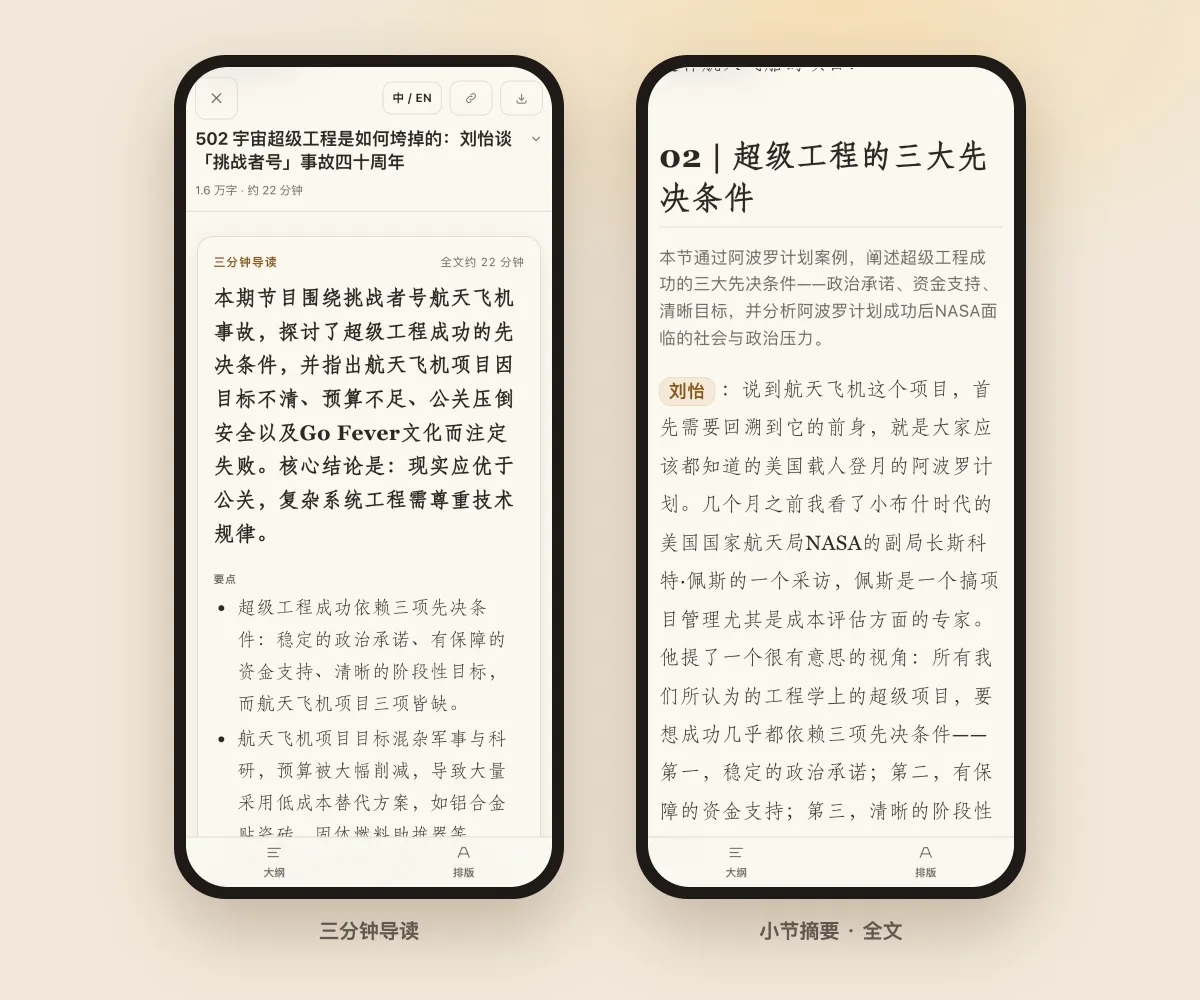
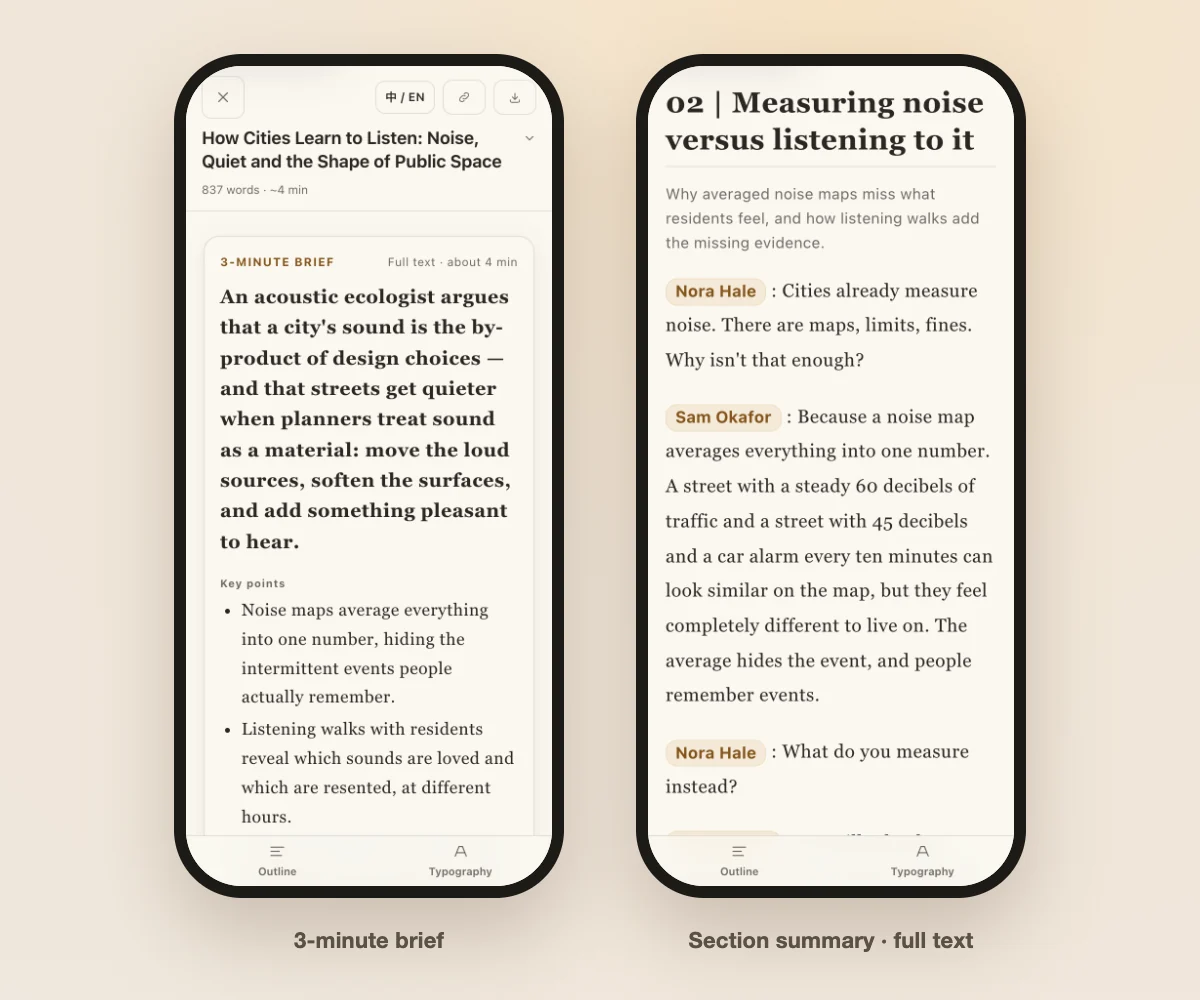
docs(readme): English demo screenshots and flow GIF
Regenerated from a local instance subscribed to seven public English podcast feeds, with an original fictional demo episode for the reader, brief and before/after views. Also shortens the English nav tab to 'Podcasts' so it fits the segmented control.

diff --git a/public/js/08-i18n.js b/public/js/08-i18n.js
@@ -379,7 +379,7 @@
 
         'nav.aria_label': 'Main navigation',
         'nav.workspace': 'Workspace',
-        'nav.podcast': 'Subscriptions',
+        'nav.podcast': 'Podcasts',
         'nav.custom': 'Import',
         'nav.library': 'Articles',
         'nav.add_podcast': 'Add Subscription',
